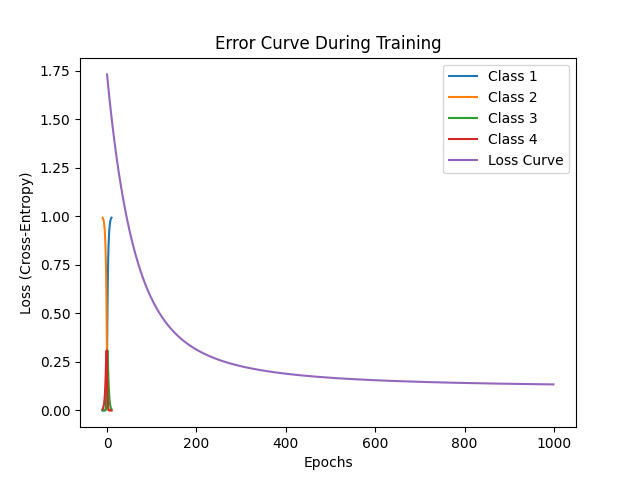
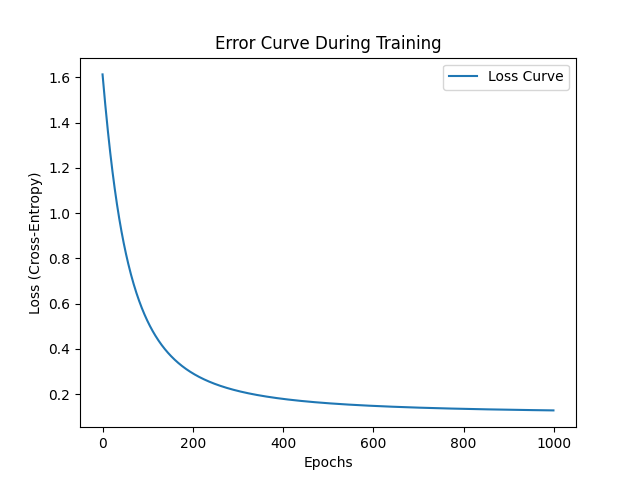
graphs

diff --git a/LogisticRegression.py b/LogisticRegression.py
@@ -39,6 +39,7 @@ class LogisticRegression():
             self.learning_rate = learning_rate
             self.epochs = epochs
             self.losses = []
+            self.pred = []
             self.bias = np.random.random(self.n_classes)
             self.W = np.random.random((self.n_classes, self.n_features))
         except Exception as e:
@@ -48,11 +49,11 @@ class LogisticRegression():
     def gradient_descent(self):
         for _ in range(self.epochs):
             logits = np.dot(self.features, self.W.T) + self.bias
-            pred = self.softmax(logits)
-            loss_pred = pred.copy()
-            pred[range(self.m), self.target] -= 1
-            self.W -= self.learning_rate * (np.dot(pred.T, self.features) / self.m)
-            self.bias -= self.learning_rate * (np.sum(pred, axis=0) / self.m)
+            self.pred = self.softmax(logits)
+            loss_pred = self.pred.copy()
+            self.pred[range(self.m), self.target] -= 1
+            self.W -= self.learning_rate * (np.dot(self.pred.T, self.features) / self.m)
+            self.bias -= self.learning_rate * (np.sum(self.pred, axis=0) / self.m)
             self.losses.append(self.compute_loss(loss_pred))
 
         plt.plot(range(len(self.losses)), self.losses, label="Loss Curve")
@@ -62,47 +63,21 @@ class LogisticRegression():
         plt.legend()
         plt.savefig('1')
 
-        sample_input = self.features.iloc[0:-1]  # Take the first sample
-        probabilities = self.softmax(np.dot(sample_input, self.W.T) + self.bias)
-        plt.bar(range(len(probabilities[0])), probabilities[0])
-        plt.xlabel("Class")
-        plt.ylabel("Probability")
-        plt.title("Class Probability Distribution for a Sample Input")
-        plt.savefig('2')
-
-        # x_min, x_max = self.features.iloc[:, 0].min() - 1, self.features.iloc[:, 0].max() + 1
-        # y_min, y_max = self.features.iloc[:, 1].min() - 1, self.features.iloc[:, 1].max() + 1
-        # xx, yy = np.meshgrid(np.linspace(x_min, x_max, 100),
-        #                     np.linspace(y_min, y_max, 100))
-        # Z = self.predict(pd.DataFrame(np.c_[xx.ravel(), yy.ravel()]))
-        # Z = Z.reshape(xx.shape)
-        # plt.contourf(xx, yy, Z, alpha=0.3)
-        # plt.scatter(self.features.iloc[:, 0], self.features.iloc[:, 1], c=self.target, edgecolor='k')
-        # plt.xlabel("Feature 1")
-        # plt.ylabel("Feature 2")
-        # plt.title("Decision Boundary")
-        # plt.savefig('3')
-
         y_true = self.target
         y_pred = self.predict(self.features)
         cm = confusion_matrix(y_true, y_pred)
         disp = ConfusionMatrixDisplay(confusion_matrix=cm)
         disp.plot(cmap=plt.cm.Blues)
         plt.title("Confusion Matrix")
-        plt.savefig('4')
+        plt.savefig('2')
 
-    x = np.linspace(-10, 10, 100)
-    logits = np.array([x, -x, x/2, -x/2]).T
-    softmax_values = np.exp(logits) / np.sum(np.exp(logits), axis=1, keepdims=True)
-    plt.plot(x, softmax_values[:, 0], label="Class 1")
-    plt.plot(x, softmax_values[:, 1], label="Class 2")
-    plt.plot(x, softmax_values[:, 2], label="Class 3")
-    plt.plot(x, softmax_values[:, 3], label="Class 4")
-    plt.xlabel("Feature Value")
-    plt.ylabel("Probability")
-    plt.title("Softmax Output for 4 Classes")
-    plt.legend()
-    plt.savefig('5')
+        plt.figure(figsize=(8, 5))
+        plt.bar(range(len(self.pred[0])), self.pred[0])
+        plt.xlabel("Class")
+        plt.ylabel("Probability")
+        plt.title("Softmax Output for a Sample Input")
+        plt.xticks(range(len(self.pred[0])), labels=[f'Class {i}' for i in range(len(self.pred[0]))])
+        plt.savefig('3')
 
     def compute_loss(self, pred):
         epsilon = 1e-15
